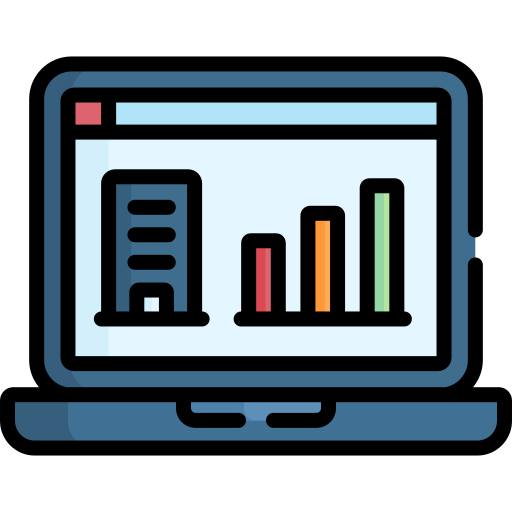
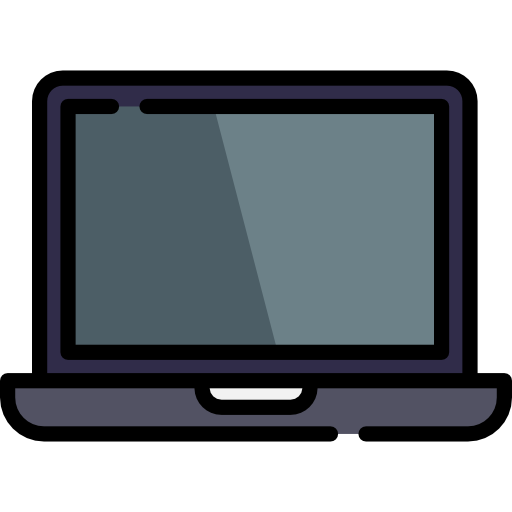
-

diff --git a/Web Application/static/js/sketch.js b/Web Application/static/js/sketch.js
@@ -56,7 +56,8 @@ var bedImage,
   keyImage,
   keyboardImage,
   lampImage,
-  laptopImage,
+  laptopImageOn,
+  laptopImageOff,
   microwaveImage,
   plateImage,
   rugImage,
@@ -126,7 +127,14 @@ function preload() {
           lampImage = loadImage(data[i]["Url"]);
           break;
         case "laptop":
-          laptopImage = loadImage(data[i]["Url"]);
+          var url = data[i]["Url"];
+          var urlSplit = url.split("/");
+          var imgClass = urlSplit[2].split(".")[0];
+          if (imgClass == "laptop-on") {
+            laptopImageOn = loadImage(data[i]["Url"]);
+          } else {
+            laptopImageOff = loadImage(data[i]["Url"]);
+          }
           break;
         case "microwave":
           microwaveImage = loadImage(data[i]["Url"]);
